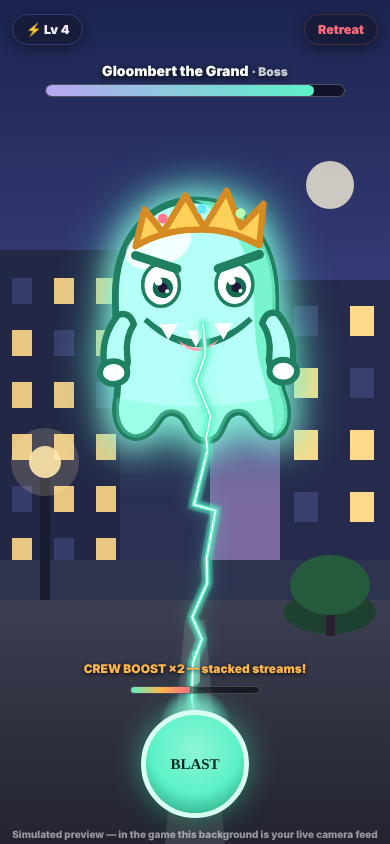
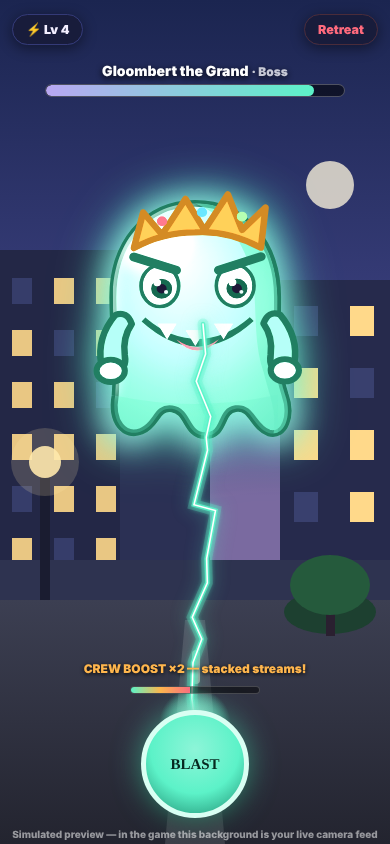
Animation craft pass: spline-eased motion, squash-and-stretch breathing, pupil darts, volumetric gradients, rim light, AR entrance pop, ambient motes, capture confetti
Claude-Session: https://claude.ai/code/session_01BDYorCFhA6JyGBvLvMTcXZ

Changed region(s): [[0.2462, 0.2156, 0.7692, 0.5237]]

diff --git a/art.js b/art.js
@@ -31,15 +31,19 @@ function eye(cx,cy,s,iris,line,lid){
   return `<g transform="translate(${cx} ${cy})"><g>
     <animateTransform attributeName="transform" type="scale" values="1 1;1 1;1 .08;1 1;1 1" keyTimes="0;.455;.5;.545;1" dur="3.8s" repeatCount="indefinite"/>
     <ellipse rx="${rx}" ry="${ry}" fill="#fff" stroke="${line}" stroke-width="1.6"/>
-    <circle cx="${0.6*s}" cy="${1*s}" r="${3.6*s}" fill="${iris}"/>
-    <circle cx="${0.6*s}" cy="${1*s}" r="${1.7*s}" fill="#1a1430"/>
-    <circle cx="${-0.9*s}" cy="${-1.2*s}" r="${1.3*s}" fill="#fff"/>
-    <circle cx="${2.1*s}" cy="${2.2*s}" r="${0.7*s}" fill="#ffffffcc"/>
+    <g>
+      <animateTransform attributeName="transform" type="translate" values="0 0;0 0;${1.9*s} ${0.4*s};${1.9*s} ${0.4*s};0 0;${-1.5*s} ${0.6*s};${-1.5*s} ${0.6*s};0 0" keyTimes="0;.28;.34;.5;.58;.74;.88;1" dur="7.5s" repeatCount="indefinite"/>
+      <circle cx="${0.6*s}" cy="${1*s}" r="${3.6*s}" fill="${iris}"/>
+      <circle cx="${0.6*s}" cy="${1*s}" r="${1.7*s}" fill="#1a1430"/>
+      <circle cx="${-0.9*s}" cy="${-1.2*s}" r="${1.3*s}" fill="#fff"/>
+      <circle cx="${2.1*s}" cy="${2.2*s}" r="${0.7*s}" fill="#ffffffcc"/>
+    </g>
   </g></g>`;
 }
 function blush(cx,cy,c){return `<ellipse cx="${cx}" cy="${cy}" rx="4.6" ry="2.8" fill="${c}" opacity=".55"/>`;}
 function arm(d,P,extra){return `<path d="${d}" fill="${P.base}" stroke="${P.line}" stroke-width="2.8" stroke-linejoin="round"${extra||""}/>`;}
-function sway(id,deg,dur){return `<animateTransform attributeName="transform" type="rotate" values="${-deg} 60 24;${deg} 60 24;${-deg} 60 24" dur="${dur}s" repeatCount="indefinite"/>`;}
+const EASE='calcMode="spline" keyTimes="0;.5;1" keySplines=".42 0 .58 1;.42 0 .58 1"';
+function sway(id,deg,dur){return `<animateTransform attributeName="transform" type="rotate" values="${-deg} 60 24;${deg} 60 24;${-deg} 60 24" dur="${dur}s" ${EASE} repeatCount="indefinite"/>`;}
 
 const FACES={
 blinky(P){return `
@@ -240,24 +244,36 @@ window.ghostSVG=function(sp,px){
   const back=(BACKS[id]||(()=>""))(P);
   return `<svg viewBox="-6 -14 132 144" width="${s}" height="${s}" xmlns="http://www.w3.org/2000/svg">
   <defs>
-    <clipPath id="${u}c"><path d="${BODY_A}"><animate attributeName="d" values="${BODY_A};${BODY_B};${BODY_A}" dur="2.4s" repeatCount="indefinite"/></path></clipPath>
+    <clipPath id="${u}c"><path d="${BODY_A}"><animate attributeName="d" values="${BODY_A};${BODY_B};${BODY_A}" dur="2.4s" ${EASE} repeatCount="indefinite"/></path></clipPath>
     <filter id="${u}f" x="-45%" y="-45%" width="190%" height="190%"><feGaussianBlur stdDeviation="6"/></filter>
+    <filter id="${u}f2" x="-30%" y="-30%" width="160%" height="160%"><feGaussianBlur stdDeviation="2.4"/></filter>
+    <radialGradient id="${u}bg" cx="38%" cy="24%" r="95%">
+      <stop offset="0%" stop-color="${P.light}"/>
+      <stop offset="46%" stop-color="${P.base}"/>
+      <stop offset="100%" stop-color="${P.shade}"/>
+    </radialGradient>
   </defs>
   <g>
     ${sway(u, boss?1.6:2.4, boss?4.2:3.4)}
+    <g transform="translate(60 64)"><g>
+      <animateTransform attributeName="transform" type="scale" values="1 1;1.028 .972;1 1;.978 1.022;1 1" keyTimes="0;.25;.5;.75;1" calcMode="spline" keySplines=".42 0 .58 1;.42 0 .58 1;.42 0 .58 1;.42 0 .58 1" dur="${boss?4.6:3.2}s" repeatCount="indefinite"/>
+    <g transform="translate(-60 -64)">
     ${back}
     <path d="${BODY_A}" fill="${P.base}" opacity=".55" filter="url(#${u}f)" transform="translate(-3.6 -3) scale(1.06)">
-      <animate attributeName="opacity" values=".4;.65;.4" dur="2.8s" repeatCount="indefinite"/>
+      <animate attributeName="opacity" values=".4;.68;.4" dur="2.8s" ${EASE} repeatCount="indefinite"/>
     </path>
-    <path d="${BODY_A}" fill="${P.base}" stroke="${P.line}" stroke-width="3" stroke-linejoin="round">
-      <animate attributeName="d" values="${BODY_A};${BODY_B};${BODY_A}" dur="2.4s" repeatCount="indefinite"/>
+    <path d="${BODY_A}" fill="url(#${u}bg)" stroke="${P.line}" stroke-width="3" stroke-linejoin="round">
+      <animate attributeName="d" values="${BODY_A};${BODY_B};${BODY_A}" dur="2.4s" ${EASE} repeatCount="indefinite"/>
     </path>
     <g clip-path="url(#${u}c)">
-      <path d="${SHADE}" fill="${P.shade}" opacity=".85"/>
-      <ellipse cx="44" cy="30" rx="15" ry="9" fill="#ffffff" opacity=".55" transform="rotate(-22 44 30)"/>
-      <path d="M25 96 Q60 104 95 96 L95 120 L25 120 Z" fill="${P.shade}" opacity=".35"/>
+      <path d="${SHADE}" fill="${P.shade}" opacity=".6"/>
+      <path d="M60 10 C38 10 25 29 25 52 C25 68 27 82 24 96" stroke="${P.light}" stroke-width="4.5" fill="none" opacity=".8" filter="url(#${u}f2)"/>
+      <ellipse cx="44" cy="30" rx="16" ry="10" fill="#ffffff" opacity=".6" transform="rotate(-22 44 30)" filter="url(#${u}f2)"/>
+      <ellipse cx="60" cy="58" rx="34" ry="30" fill="#ffffff" opacity=".12" filter="url(#${u}f)"/>
+      <path d="M25 96 Q60 104 95 96 L95 120 L25 120 Z" fill="${P.shade}" opacity=".3"/>
     </g>
     ${face}
+    </g></g></g>
   </g>
 </svg>`;
 };

diff --git a/play/index.html b/play/index.html
@@ -130,6 +130,13 @@ input[type=text]:focus{border-color:var(--ecto)}
 #ghostHolder.hit svg{animation:shake .14s infinite}
 @keyframes shake{0%,100%{transform:translate(0,0)}25%{transform:translate(-3px,2px)}50%{transform:translate(3px,-2px)}75%{transform:translate(-2px,-2px)}}
 #ghostHolder svg{width:100%;height:100%;filter:drop-shadow(0 0 16px rgba(185,167,242,.75))}
+#ghostHolder .pop{width:100%;height:100%;animation:popin .55s cubic-bezier(.18,1.6,.45,1)}
+@keyframes popin{0%{transform:scale(.08) rotate(-10deg);opacity:0}100%{transform:scale(1) rotate(0);opacity:1}}
+.mote{position:absolute;border-radius:50%;background:#5cf2c8;pointer-events:none;z-index:5;opacity:.35;
+  animation:moteFloat 7s ease-in-out infinite}
+@keyframes moteFloat{0%,100%{transform:translate(0,0);opacity:.15}30%{opacity:.5}50%{transform:translate(14px,-46px)}70%{opacity:.3}}
+.confetti{position:absolute;top:-12px;width:9px;height:14px;border-radius:2px;animation:confFall 2.6s ease-in forwards}
+@keyframes confFall{0%{transform:translateY(0) rotate(0);opacity:1}100%{transform:translateY(105vh) rotate(640deg);opacity:.2}}
 #beamCanvas{z-index:7}
 #beamCanvas{position:absolute;inset:0;pointer-events:none}
 #huntTop{position:absolute;top:calc(10px + env(safe-area-inset-top));left:12px;right:12px;display:flex;align-items:center;gap:10px;z-index:30}
@@ -465,7 +472,15 @@ async function startHunt(g){
   show("hunt");
   $("hpName").innerHTML = `${g.sp.name} <span style="opacity:.75;font-size:12px">· ${RAR_LABEL[g.sp.rar]}</span>`;
   $("huntXp").textContent = `Lv ${level()}`;
-  $("ghostHolder").innerHTML = ghostSVG(g.sp);
+  $("ghostHolder").innerHTML = '<div class="pop">'+ghostSVG(g.sp)+'</div>';
+  // ambient spectral motes
+  document.querySelectorAll(".mote").forEach(m=>m.remove());
+  for(let i=0;i<7;i++){
+    const m=document.createElement("div"); m.className="mote";
+    const sz=2+Math.random()*4;
+    m.style.cssText=`width:${sz}px;height:${sz}px;left:${5+Math.random()*90}%;top:${18+Math.random()*64}%;animation-delay:-${Math.random()*7}s;animation-duration:${5.5+Math.random()*4}s`;
+    $("camWrap").appendChild(m);
+  }
   $("huntHint").style.display="block";
   const b = crewBoost();
   $("boostTag").style.display = b>1 ? "block" : "none";
@@ -594,6 +609,13 @@ function capture(){
   $("caughtTitle").textContent = sp.rar==="b" ? "BOSS DOWN!" : "Trapped!";
   $("caughtSub").textContent = `${sp.name} captured · +${sp.xp} XP`;
   $("caught").classList.add("on");
+  document.querySelectorAll("#caught .confetti").forEach(c=>c.remove());
+  const cols=["#5cf2c8","#ffb64d","#b9a7f2","#ff8ba0","#8fd8ff"];
+  for(let i=0;i<24;i++){
+    const c=document.createElement("div"); c.className="confetti";
+    c.style.cssText=`left:${Math.random()*100}%;background:${cols[i%cols.length]};animation-delay:${Math.random()*.5}s;animation-duration:${2+Math.random()*1.4}s`;
+    $("caught").appendChild(c);
+  }
   cloudPush();
 }
 $("caughtBtn").onclick=()=>{ $("caught").classList.remove("on"); show("mapScreen"); refreshGhosts(); updateHUD(); renderDex(); };
